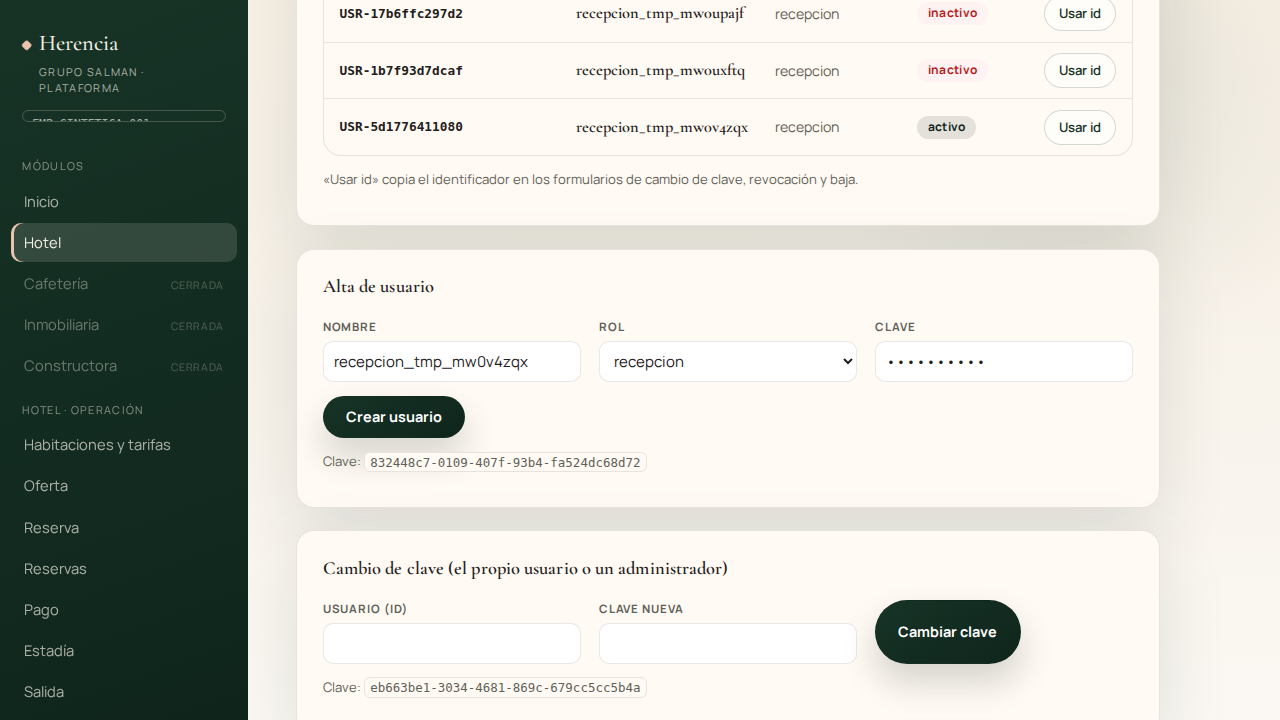
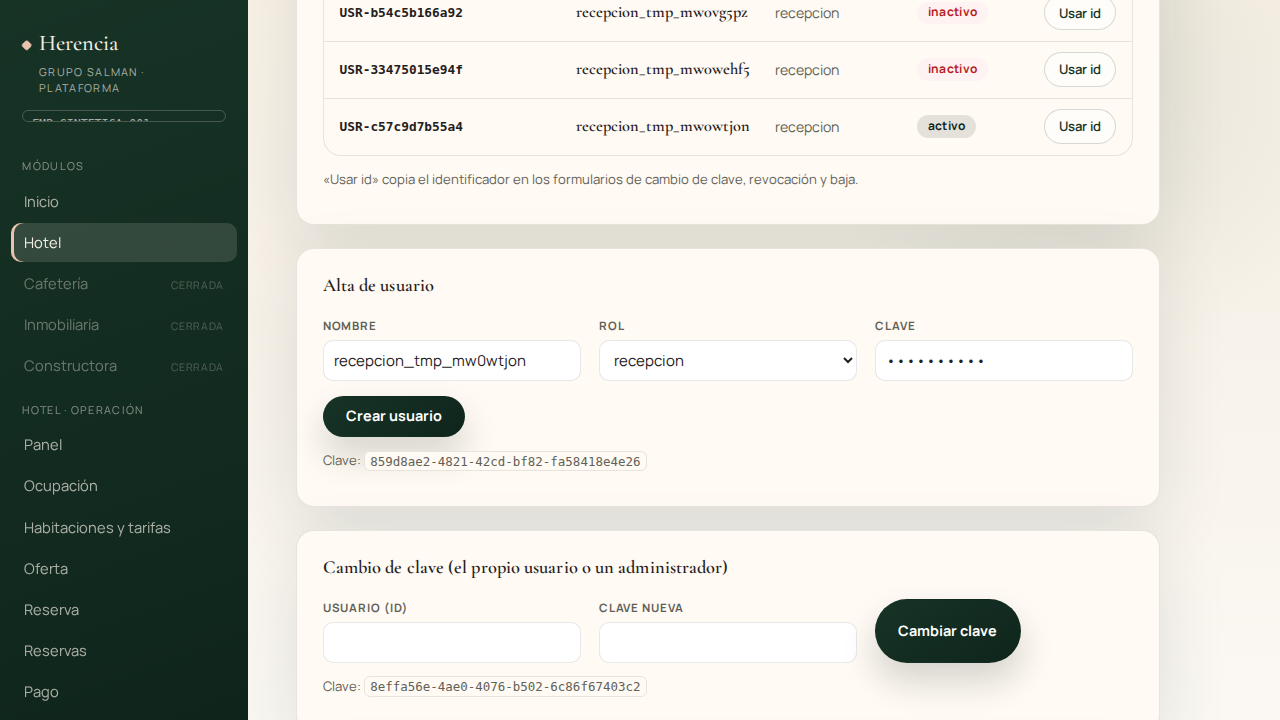
backlog: deuda de la iteración de operación (issues 07-11) + práctica de aislamiento de pruebas
- v1-issue-07 (P1): check-in/salida sin la regla de fecha/hora ni documento
  del dominio — divergencia documentada, requiere decisión del propietario.
- v1-issue-08..10: decisiones de negocio pendientes (financieros y rol
  gerencia; personas/reasignación/catálogo de tipos; tarifas superpuestas,
  mantenimiento programado, denominador de ocupación y auditoría).
- v1-issue-11 (P2): aislar la base de pruebas ante trabajos concurrentes
  (documentado en e2e/README.md; guard fail-fast pendiente).
- Índice con el resumen de la iteración de operación.
- e2e/README.md: base dedicada recomendada para la corrida formal.
- Evidencia de la suite base regenerada (44/44) tras la iteración.

diff --git a/backlog/v1/indice.md b/backlog/v1/indice.md
@@ -55,3 +55,25 @@ navegador; formularios del front visibles para roles que el contrato rechaza;
 hidratación bloqueada en `next dev` con HMR caído; procedimiento de
 aprobación de deploys Railway (NEEDS_APPROVAL); `e2e-resultados.json`
 versionado que envejece.
+
+## Operación del hotel — mantenedor, consulta, ocupación e indicadores (2026-11-03)
+
+Orden del propietario: completar el flujo operativo para entender el negocio
+y gestionar habitaciones sin ambigüedad. Spec gobernante nueva:
+`docs/arquitectura/spec-hotel-operacion-v1.md` (flujos por rol, métricas con
+fórmula/unidad/fuente/limitaciones, criterios CA-*); spec-api-v1 pasa a 32
+operaciones. **Cambio de alcance:** el panel operativo entra a V1; los
+indicadores financieros de HU-HOT-03 siguen fuera. Evidencia y matriz
+requisito → spec → implementación → prueba en
+`capturas/e2e-2026-11-03/INFORME-operacion.md`.
+
+- [Hecha] `v1-oper-01` — mantenedor (alta solo-crear, edición auditada,
+  tarifa append-only con desempate, baja lógica), detalle de reserva con
+  cuenta, búsqueda por periodo, ocupación por noche y panel operativo.
+- [Lista, P1] `v1-issue-07` — check-in/salida sin la regla de fecha/hora ni
+  documento del dominio (hallazgo de la E2E).
+- [Lista, P2] `v1-issue-08..10` — decisiones pendientes del propietario
+  (financieros y rol gerencia; personas/reasignación/tipos; tarifas
+  superpuestas, mantenimiento programado, denominador y auditoría).
+- No cargados a GitHub Projects (sin acciones externas en esta sesión).
+

diff --git a/e2e/README.md b/e2e/README.md
@@ -42,3 +42,19 @@ anteriores dejan filas en la base sintética; no interfieren.
   con una corrida completa o restaurarlo.
 - `capturas/e2e-AAAA-MM-DD/*.png`: evidencia visual numerada en el orden de
   los casos; la ruta queda registrada en cada corrida que llama a `evidencia`.
+
+## Suite de operación (2026-11-03)
+
+`e2e-operacion.mjs` cubre mantenedor de habitaciones, consulta de reservas,
+ocupación e indicadores (`docs/arquitectura/spec-hotel-operacion-v1.md` §6).
+No toca `e2e.mjs`; mismos requisitos. Resultados en
+`e2e-operacion-resultados.json`, capturas `op-NN-*.png`.
+
+```bash
+FRONT_URL=http://127.0.0.1:3000 API_URL=http://127.0.0.1:8080 node e2e-operacion.mjs
+```
+
+**Base de pruebas:** la corrida formal debe usar una base dedicada
+(p. ej. `DATABASE_URL_TEST=.../plataforma_test_operacion`) o una desechable
+recién creada: con otra sesión escribiendo en la base compartida, los tests
+fallan por interferencia (deadlocks, sesiones borradas). Ver V1-ISSUE-08.
